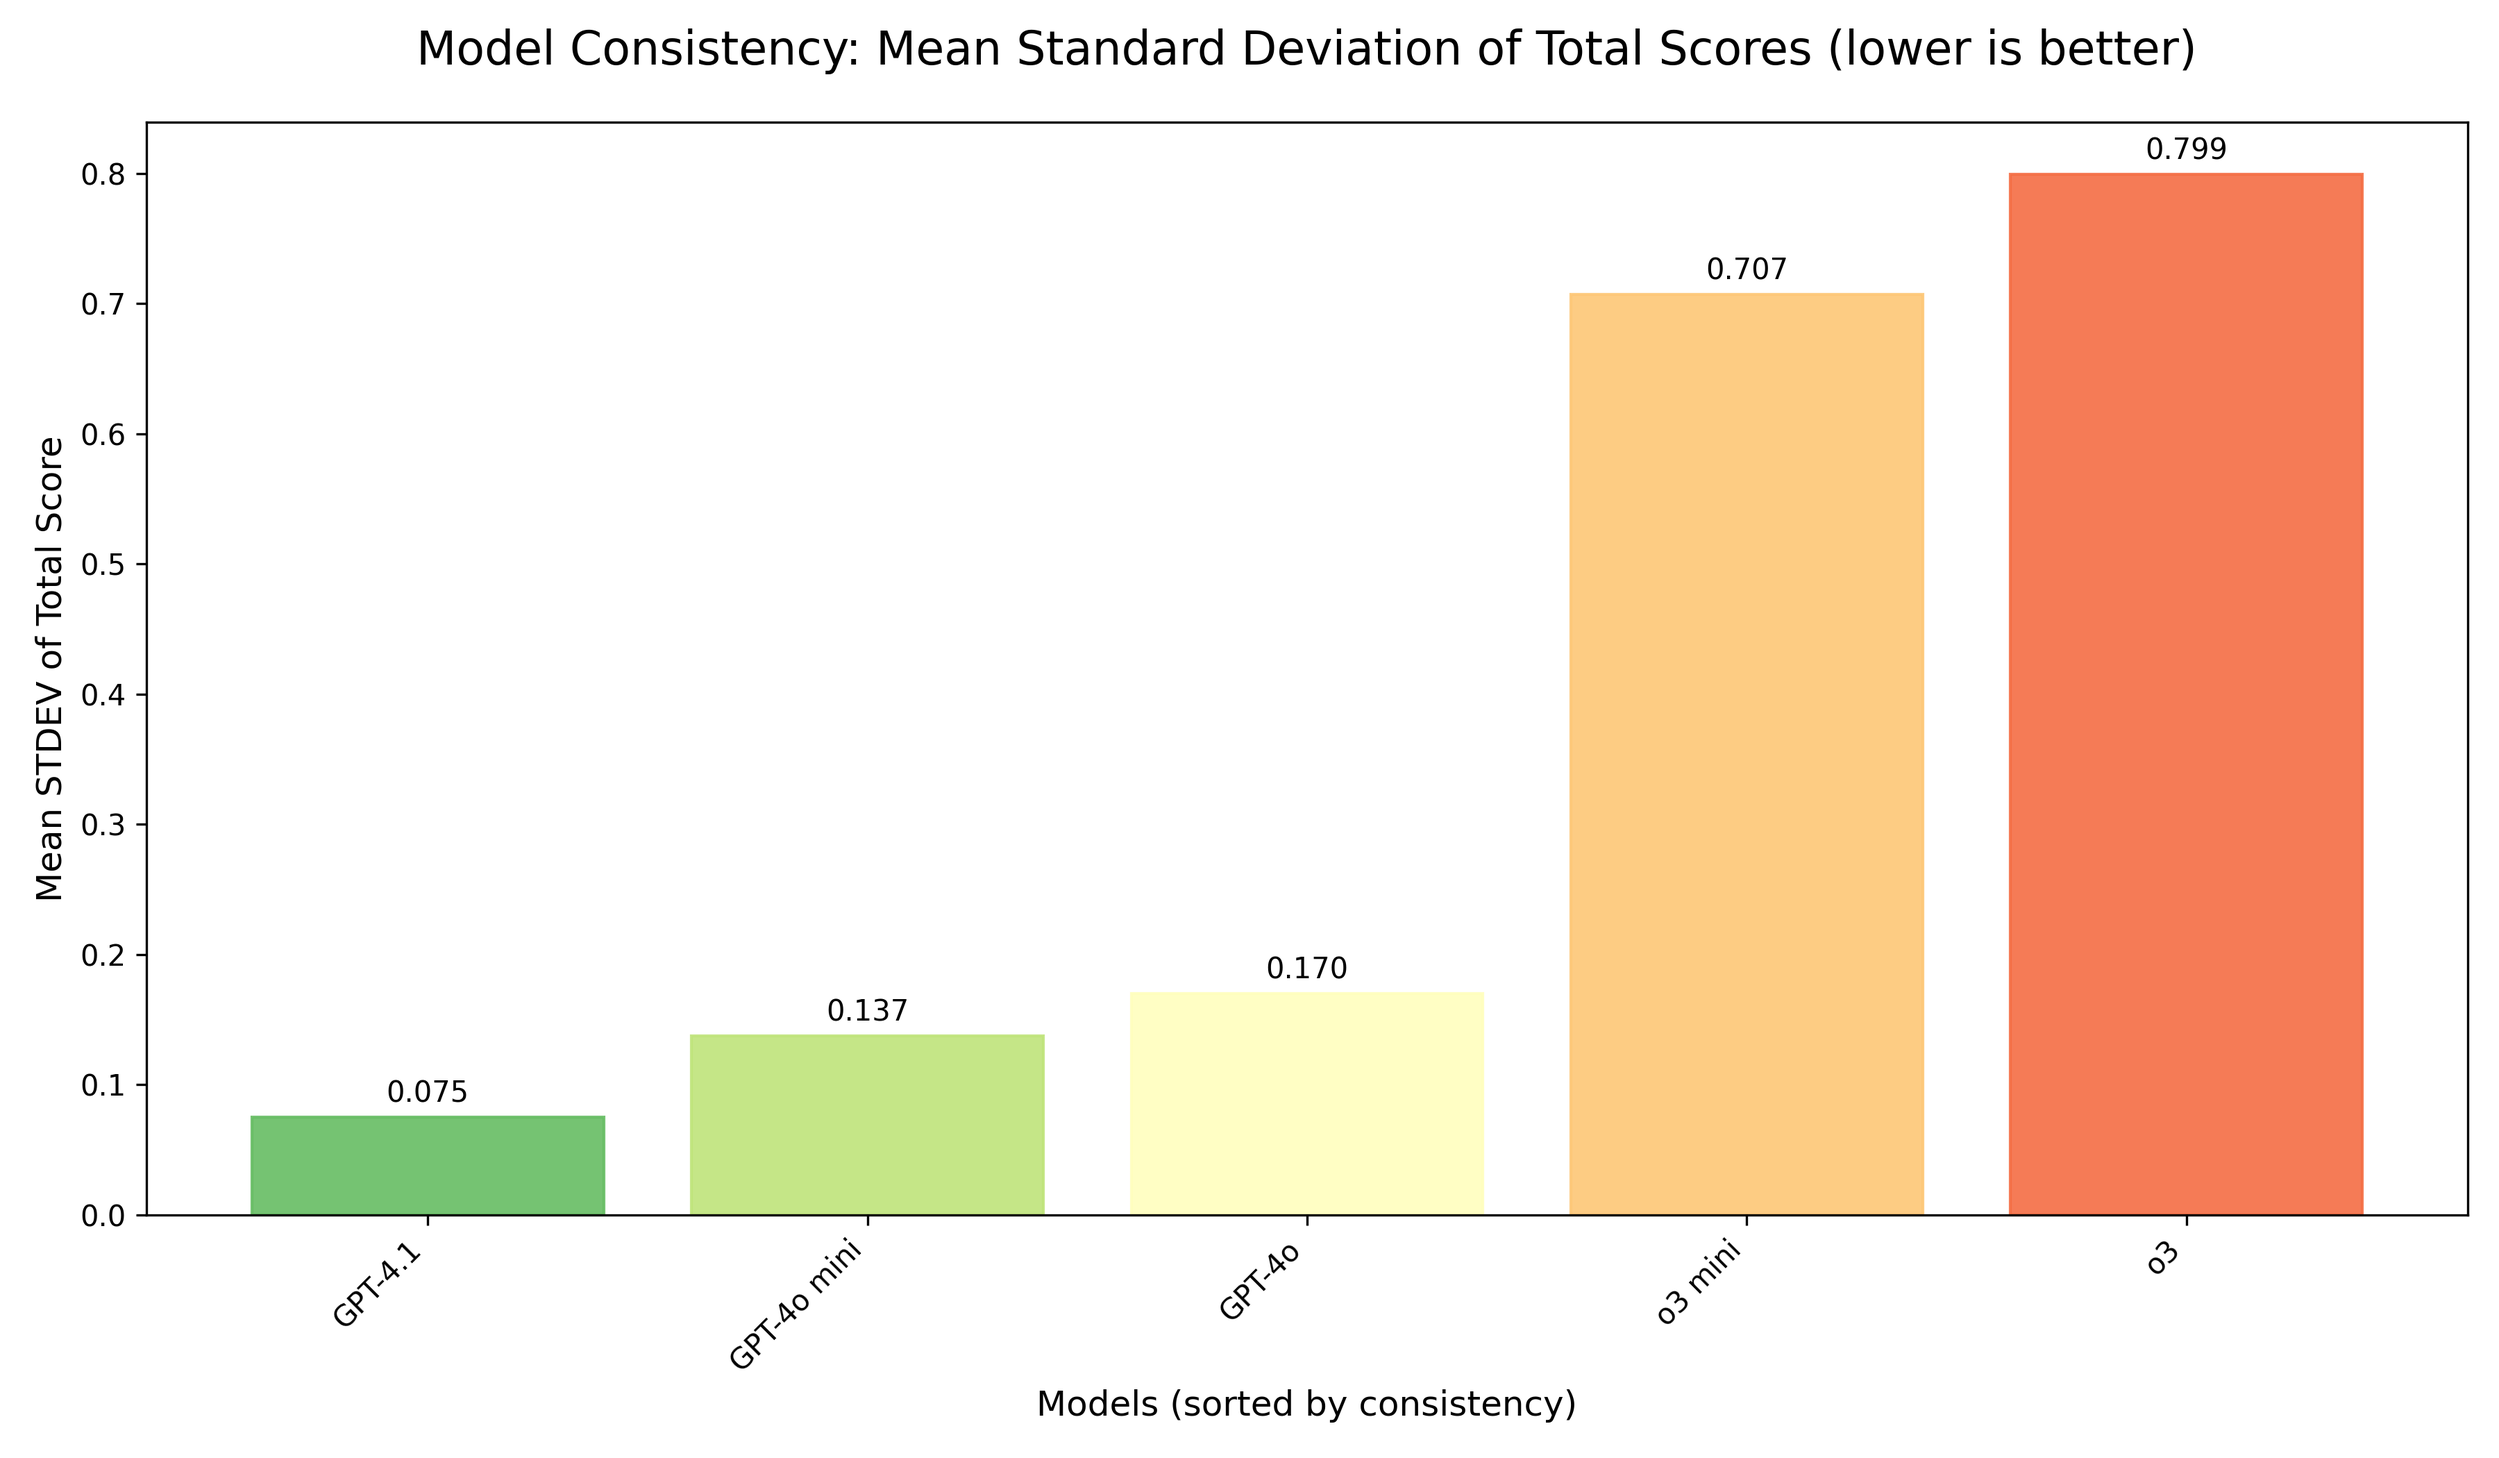
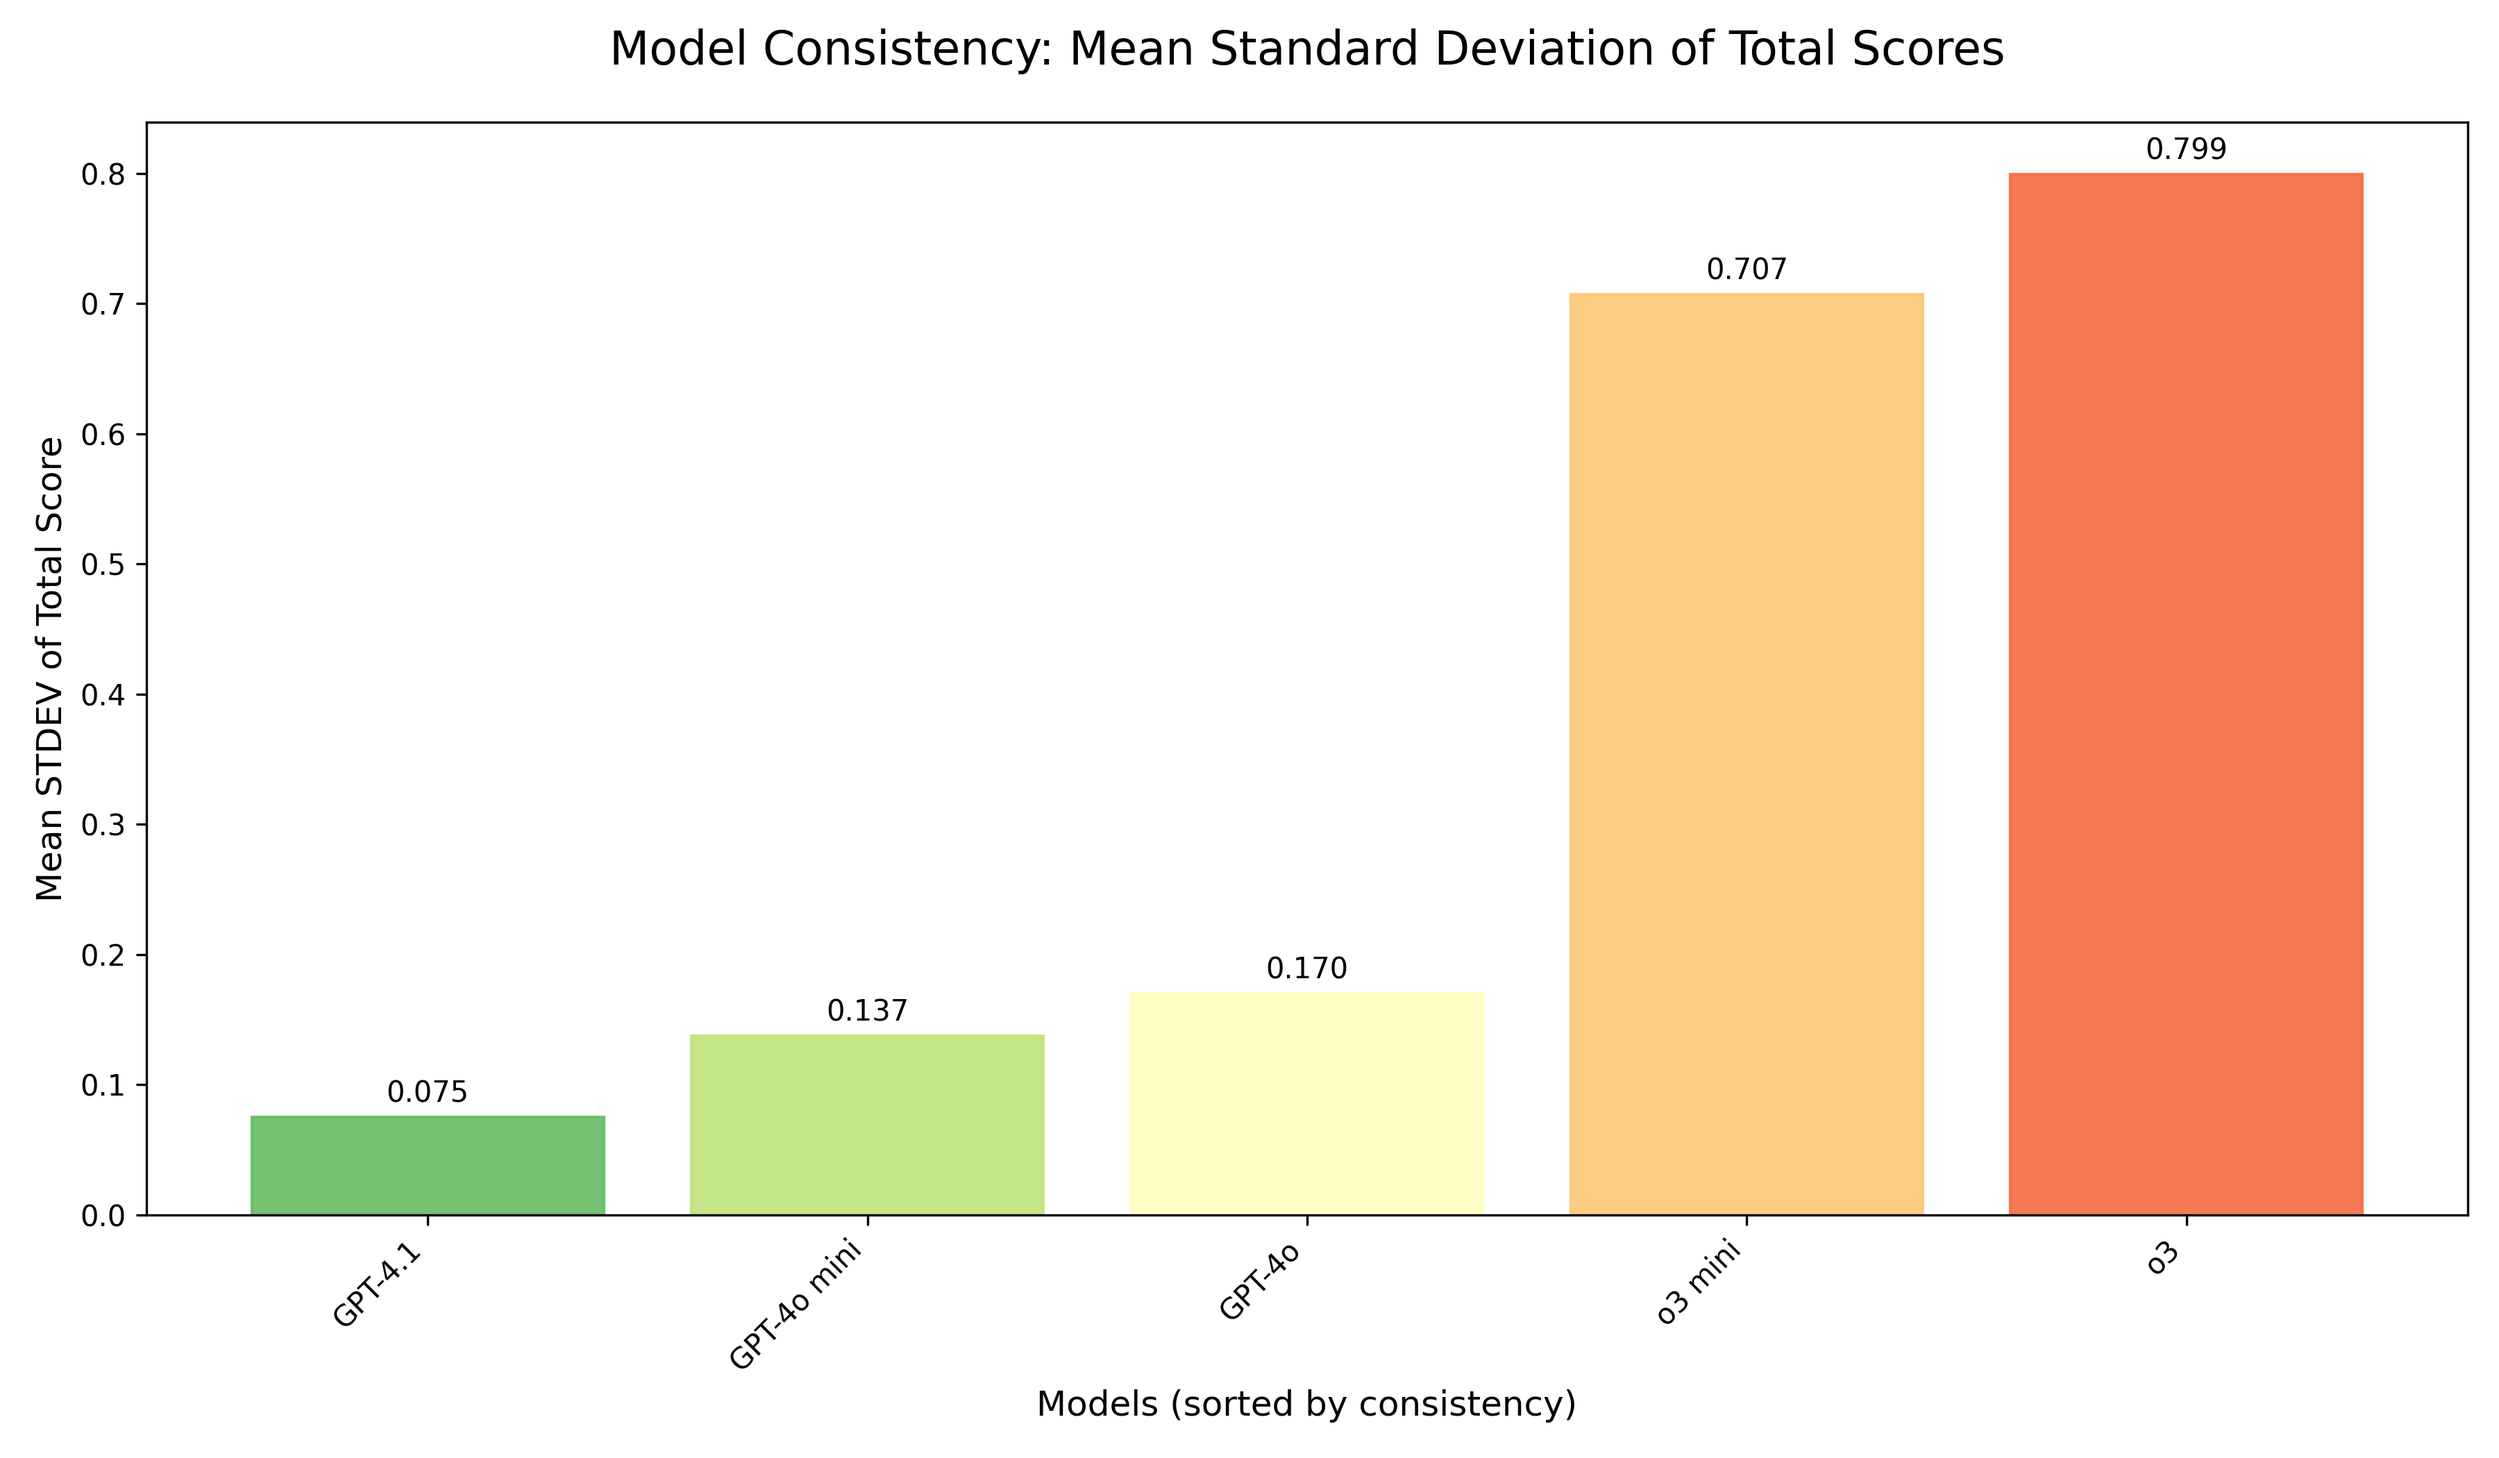
changes

Changed region(s): [[0.1556, 0.0, 0.8711, 0.0619]]

diff --git a/experiments/exp3_model_comparison/scripts/02_analyze_model_comparison.py b/experiments/exp3_model_comparison/scripts/02_analyze_model_comparison.py
@@ -477,7 +477,7 @@ def create_visualizations(df, consistency_df, model_stats):
     # Use model names on x-axis (categorical) and annotate values
     bars = plt.bar(display_names, mean_stdevs, alpha=0.9)
     plt.title(
-        "Model Consistency: Mean Standard Deviation of Total Scores (lower is better)",
+        "Model Consistency: Mean Standard Deviation of Total Scores",
         fontsize=16,
         pad=20,
     )
